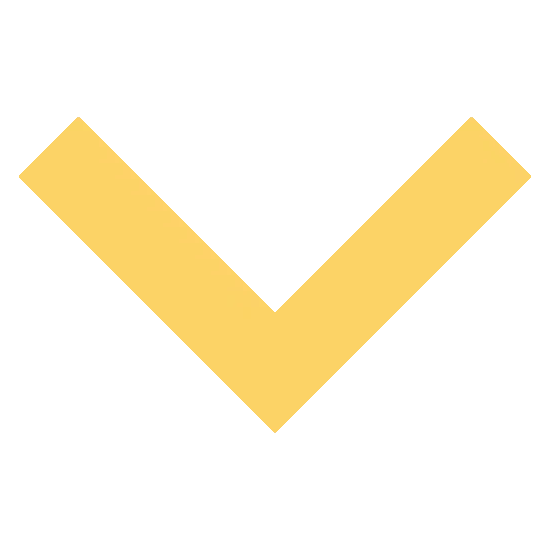
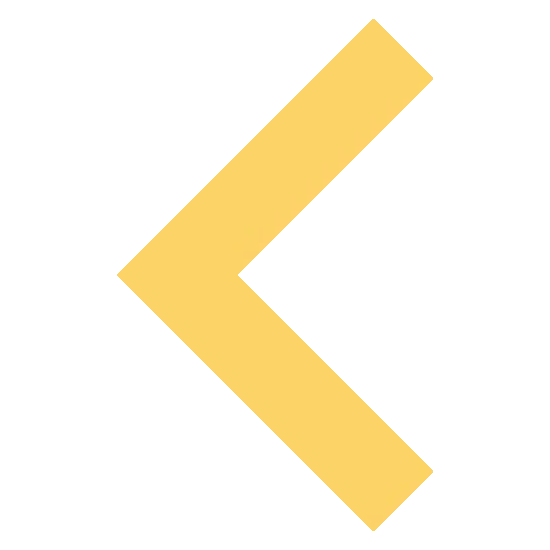
fix: make correct animation (Sun, Mar 12, 2023 03:16:47 AM)

Changed region(s): [[0.0309, 0.0309, 0.8036, 0.4945], [0.4945, 0.2164, 0.9582, 0.9582]]

diff --git a/cssBayan/index.html b/cssBayan/index.html
@@ -16,9 +16,9 @@
         <form>
             <div class="section">
                 <input type="radio" id="1" name="meme">
-                <label for="1">
+                <label for="1" class="tab">
                     <span>Make a nice clothes for you</span>
-                    <img src="./img/arrow.png" alt="Parrot and dress" id="icon">
+                    <img src="./img/arrow.png" alt="Arrow" class="icon">
                 </label>
                 <label for="1" class="content">
                     <img src="./img/dressing.png" alt="Parrot and dress">
@@ -26,42 +26,42 @@
             </div>
             <div class="section">
                 <input type="radio" id="2" name="meme">
-                <label for="2">
+                <label for="2" class="tab">
                     <span>Show you a trick</span>
-                    <img src="./img/arrow.png" alt="Parrot and dress" id="icon">
+                    <img src="./img/arrow.png" alt="Arrow" class="icon">
                 </label>
                 <label for="2" class="content">
-                    <img src="./img/tricks.png" alt="Funny meme">
+                    <img src="./img/tricks.png" alt="Parrot and trick">
                 </label>
             </div>
             <div class="section">
                 <input type="radio" id="3" name="meme">
-                <label for="3">
+                <label for="3" class="tab">
                     <span>Fix your remote controller</span>
-                    <img src="./img/arrow.png" alt="Parrot and dress" id="icon">
+                    <img src="./img/arrow.png" alt="Arrow" class="icon">
                 </label>
                 <label for="3" class="content">
-                    <img src="./img/pult.png" alt="Funny meme">
+                    <img src="./img/pult.png" alt="Parrot and controller">
                 </label>
             </div>
             <div class="section">
                 <input type="radio" id="4" name="meme" checked>
-                <label for="4">
+                <label for="4" class="tab">
                     <span>Follow your instructions precisely</span>
-                    <img src="./img/arrow.png" alt="Parrot and dress" id="icon">
+                    <img src="./img/arrow.png" alt="Arrow" class="icon">
                 </label>
                 <label for="4" class="content">
-                    <img src="./img/bathing.png" alt="Funny meme">
+                    <img src="./img/bathing.png" alt="Parrot and bathing">
                 </label>
             </div>
             <div class="section">
                 <input type="radio" id="5" name="meme">
-                <label for="5">
+                <label for="5" class="tab">
                     <span>Take care about your budget</span>
-                    <img src="./img/arrow.png" alt="Parrot and dress" id="icon">
+                    <img src="./img/arrow.png" alt="Arrow" class="icon">
                 </label>
                 <label for="5" class="content">
-                    <img src="./img/carrot.png" alt="Funny meme">
+                    <img src="./img/carrot.png" alt="Parrot and budget">
                 </label>
             </div>
         </form>

diff --git a/cssBayan/style.css b/cssBayan/style.css
@@ -8,7 +8,7 @@
 html {
     font-family: 'Inter', sans-serif;
     font-size: 0.8em;
-    color: rgba(0, 0, 0, 0.6);
+    color: rgb(70, 70, 70);
 }
 
 .accordeon-wrapper {
@@ -26,16 +26,25 @@ html {
     line-height: 5.0rem;
     font-size: 3.0rem;
     font-weight: 700;
+    color: rgba(0, 0, 0);
+}
+
+
+/***LABELS AND CONTENTS***/
+
+
+span {
+    margin: 0 0 0 2rem;
 }
 
 .section {
-    /*border-top: solid 0.1em #5c5c5c;*/
-    line-height: 4.0rem;
+    border-top: solid 0.5rem #383838;
+    border-bottom: solid 0.5rem #383838;
+    border-radius: 2.0rem;
+    line-height: 5.0rem;
     font-size: 2.0rem;
     font-weight: 700;
 }
-
-
 
 img {
     height: 0;
@@ -45,38 +54,63 @@ img {
 label {
     display: flex;
     align-items: center;
-    background-color: rgba(27, 83, 16, 0.75);
-    border-radius: 0rem;
-}
-
-span {
-    margin: 0 0 0 2rem;
+    background-color: rgba(25, 85, 15, 0.75);
+    border-radius: 1.5rem;
 }
 
 .content {
-    background-color: rgba(27, 83, 16, 0.25);
-    border-radius: 0rem;
+    background-color: rgba(25, 85, 15, 0.25);
+    border-radius: 1.5rem;
+}
+
+.content:hover img {
+    height: 20rem;
+    margin: 1rem auto 1rem auto;
+}
+
+.section:hover .icon {
+    transform: rotate(-90deg);
+}
+
+.section:active span {
+    color: #ffffff;
+}
+
+.section:active .tab {
+    background-color: rgb(115, 85, 15);
+}
+
+.section:active img {
+    opacity: 0.6;
 }
 
 .section label:nth-child(2):hover {
     color: #ffffff;
-    background-color: rgb(92, 66, 10);
+    background-color: rgb(115, 85, 15);
 }
 
 label:hover ~ label img {
     height: 20rem;
-    border-radius: 1rem;
+    border-radius: 0.5rem;
     margin: 1rem auto 1rem auto;
 }
 
-input {
-    display: none;
-    visibility: hidden;
-    margin-left: auto;
+label:hover .icon {
+    transform: rotate(-90deg);
 }
 
-input:hover {
-    visibility: visible;
+.icon {
+    height: 2.0rem !important;
+    margin: 0rem 2rem 0rem auto !important;
+}
+
+
+/***INPUT***/
+
+
+input {
+    display: none;
+    margin-left: auto;
 }
 
 input:checked ~ label img {
@@ -85,7 +119,11 @@ input:checked ~ label img {
     margin: 1rem auto 1rem auto;
 }
 
-#icon {
-    height: 2.0rem;
-    margin: 0rem 1rem 0rem auto;
+input:checked ~ label .icon {
+    transform: rotate(-90deg);
+}
+
+input:checked ~ .tab {
+    background-color: rgb(115, 85, 15);
+    color: rgb(255, 255, 255);
 }
